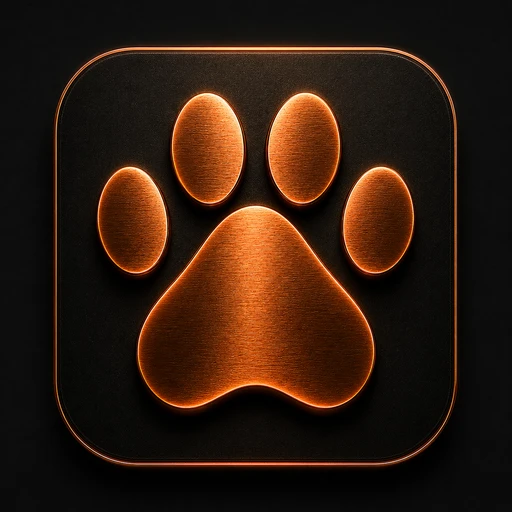
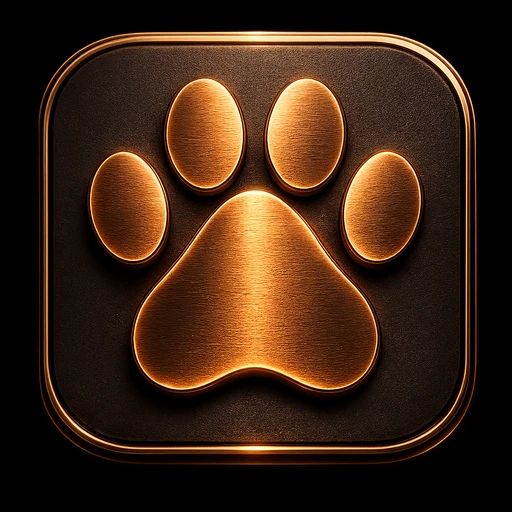
Add files via upload

diff --git a/src/components/NavBar.tsx b/src/components/NavBar.tsx
@@ -1,19 +1,41 @@
+/**
+ * NavBar – Gebürstetes Metall Design
+ * Kupfer-Bronze Akzente, Ambient Glow, matte Oberfläche
+ */
 import { useNavigate, useLocation } from "react-router-dom";
 
 const F = "'Barlow Condensed', sans-serif";
 
+// Kupfer-Bronze Palette
+const COPPER        = "#cd7f32";
+const COPPER_LIGHT  = "#e8a050";
+const COPPER_GLOW   = "rgba(180,100,20,0.35)";
+const INACTIVE      = "rgba(160,130,100,0.45)";  // warm-grau Bronze
+
 const NAV_ITEMS = [
-  { id: "home",     path: "/",         label: "HOME",     d: "M3 9.5L12 3l9 6.5V20a1 1 0 01-1 1H5a1 1 0 01-1-1V9.5z M9 21V12h6v9" },
-  { id: "plan",     path: "/plan",     label: "PLAN",     d: "M8 2v4M16 2v4M3 10h18M5 4h14a2 2 0 012 2v14a2 2 0 01-2 2H5a2 2 0 01-2-2V6a2 2 0 012-2z" },
-  { id: "coaches",  path: "/coaches",  label: "",         isPaw: true },
-  { id: "training", path: "/training", label: "TRAINING", d: "M6 4h4v7H6zM14 4h4v7h-4zM4 15h16M8 15v5M16 15v5" },
-  { id: "profil",   path: "/profil",   label: "PROFIL",   d: "M20 21v-2a4 4 0 00-4-4H8a4 4 0 00-4 4v2M12 3a4 4 0 100 8 4 4 0 000-8z" },
+  {
+    id: "home", path: "/", label: "HOME",
+    d: "M3 9.5L12 3l9 6.5V20a1 1 0 01-1 1H5a1 1 0 01-1-1V9.5z M9 21V12h6v9",
+  },
+  {
+    id: "plan", path: "/plan", label: "PLAN",
+    d: "M8 2v4M16 2v4M3 10h18M5 4h14a2 2 0 012 2v14a2 2 0 01-2 2H5a2 2 0 01-2-2V6a2 2 0 012-2z",
+  },
+  { id: "coaches", path: "/coaches", label: "", isPaw: true },
+  {
+    id: "training", path: "/training", label: "TRAINING",
+    d: "M6 4h4v7H6zM14 4h4v7h-4zM4 15h16M8 15v5M16 15v5",
+  },
+  {
+    id: "profil", path: "/profil", label: "PROFIL",
+    d: "M20 21v-2a4 4 0 00-4-4H8a4 4 0 00-4 4v2M12 3a4 4 0 100 8 4 4 0 000-8z",
+  },
 ];
 
 export function NavBar() {
-  const navigate  = useNavigate();
-  const location  = useLocation();
-  const current   = location.pathname;
+  const navigate = useNavigate();
+  const location = useLocation();
+  const current  = location.pathname;
 
   const isActive = (path: string) =>
     path === "/" ? current === "/" : current.startsWith(path);
@@ -21,43 +43,97 @@ export function NavBar() {
   return (
     <nav
       className="fixed bottom-0 left-1/2 -translate-x-1/2 w-full max-w-[430px] z-50"
-      style={{ background: "rgba(8,8,8,0.96)", borderTop: "1px solid rgba(249,115,22,0.15)", backdropFilter: "blur(20px)" }}
+      style={{
+        // Matte gebürstete Metalloberfläche
+        background: "linear-gradient(180deg, #1a1410 0%, #110e0a 60%, #0d0b08 100%)",
+        borderTop: `1px solid ${COPPER}55`,
+        // Subtile Kantenbeleuchtung oben
+        boxShadow: `0 -1px 0 ${COPPER}33, 0 -8px 32px rgba(0,0,0,0.6)`,
+        backdropFilter: "blur(20px)",
+      }}
     >
-      <div className="flex items-center justify-around px-2 pt-2.5 pb-6">
+      {/* Subtile Metallic-Linie oben */}
+      <div style={{
+        height: 1,
+        background: `linear-gradient(to right, transparent, ${COPPER}66, ${COPPER_LIGHT}88, ${COPPER}66, transparent)`,
+      }} />
+
+      <div className="flex items-center justify-around px-2 pt-2 pb-6">
         {NAV_ITEMS.map((item) =>
           item.isPaw ? (
+            // ── Mittleres Paw-Icon – Gebürstetes Kupfer ──────────────────────
             <button
               key="paw"
               onClick={() => navigate("/coaches")}
-              className="w-14 h-14 rounded-full flex items-center justify-center cursor-pointer -mt-6 flex-shrink-0"
-              style={{
-                background: "#000",
-                border: `2px solid ${isActive("/coaches") ? "#f97316" : "#f97316"}`,
-                boxShadow: isActive("/coaches")
-                  ? "0 0 24px #f97316, 0 0 48px rgba(249,115,22,0.4)"
-                  : "0 0 16px #f97316, 0 0 32px rgba(249,115,22,0.25)",
-              }}
+              className="-mt-7 flex-shrink-0 cursor-pointer"
+              style={{ background: "none", border: "none", padding: 0 }}
             >
-              <img src="/images/paw.webp" alt="paw" className="w-8 h-8 object-contain" />
+              <div style={{
+                width: 62, height: 62,
+                borderRadius: 16,
+                // Gebürstetes Metall Hintergrund
+                background: "linear-gradient(145deg, #2a1f14, #1a1208, #2e2010, #1a1208)",
+                // Kupfer Rahmen mit Glow
+                border: `1.5px solid ${COPPER}`,
+                boxShadow: isActive("/coaches")
+                  ? `0 0 20px ${COPPER_GLOW}, 0 0 40px ${COPPER_GLOW}, inset 0 1px 0 ${COPPER_LIGHT}44`
+                  : `0 0 12px ${COPPER_GLOW}, inset 0 1px 0 ${COPPER}33`,
+                display: "flex",
+                alignItems: "center",
+                justifyContent: "center",
+                position: "relative",
+                overflow: "hidden",
+              }}>
+                {/* Innerer Metallic-Schimmer */}
+                <div style={{
+                  position: "absolute", inset: 0,
+                  background: "linear-gradient(135deg, rgba(205,127,50,0.15) 0%, transparent 50%, rgba(205,127,50,0.08) 100%)",
+                  borderRadius: 14,
+                }} />
+                <img src="/images/nav_paw.webp" alt="paw"
+                  className="relative z-10"
+                  style={{ width: 46, height: 46, objectFit: "contain", borderRadius: 10 }} />
+              </div>
             </button>
           ) : (
+            // ── Normale Nav-Items ────────────────────────────────────────────
             <button
               key={item.id}
               onClick={() => navigate(item.path)}
-              className="flex flex-col items-center gap-1 px-2.5 py-1 text-[9px] font-bold tracking-widest transition-colors"
-              style={{
-                fontFamily: F,
-                color: isActive(item.path) ? "#f97316" : "rgba(255,255,255,0.35)",
-                background: "none",
-                border: "none",
-              }}
+              className="flex flex-col items-center gap-1 px-2 py-1 relative"
+              style={{ background: "none", border: "none" }}
             >
+              {/* Aktiver Indikator – feiner Kupfer-Punkt */}
+              {isActive(item.path) && (
+                <div style={{
+                  position: "absolute",
+                  top: -3, left: "50%", transform: "translateX(-50%)",
+                  width: 3, height: 3, borderRadius: "50%",
+                  background: COPPER_LIGHT,
+                  boxShadow: `0 0 6px ${COPPER}`,
+                }} />
+              )}
+
               <svg width={20} height={20} viewBox="0 0 24 24" fill="none"
-                stroke={isActive(item.path) ? "#f97316" : "rgba(255,255,255,0.35)"}
-                strokeWidth="1.8" strokeLinecap="round" strokeLinejoin="round">
+                stroke={isActive(item.path) ? COPPER_LIGHT : INACTIVE}
+                strokeWidth="1.6" strokeLinecap="round" strokeLinejoin="round"
+                style={{
+                  filter: isActive(item.path) ? `drop-shadow(0 0 4px ${COPPER_GLOW})` : "none",
+                  transition: "all 0.2s",
+                }}>
                 <path d={item.d} />
               </svg>
-              {item.label}
+
+              <span style={{
+                fontFamily: F,
+                fontSize: 9,
+                fontWeight: 700,
+                letterSpacing: "0.08em",
+                color: isActive(item.path) ? COPPER_LIGHT : INACTIVE,
+                transition: "color 0.2s",
+              }}>
+                {item.label}
+              </span>
             </button>
           )
         )}

diff --git a/src/index.css b/src/index.css
@@ -4,14 +4,56 @@
 @tailwind utilities;
 
 * { box-sizing: border-box; margin: 0; padding: 0; }
-body { background: #0a0a0a; color: #fff; font-family: 'Barlow', sans-serif; }
-button { cursor: pointer; }
-::-webkit-scrollbar { width: 4px; height: 4px; }
-::-webkit-scrollbar-thumb { background: #2a2a2a; border-radius: 4px; }
 
-/* ── iOS Auto-Zoom Fix ───────────────────────────────────────────────────────
-   Safari zoomt bei Input-Feldern mit font-size < 16px automatisch rein.
-   Diese Regel verhindert das für alle Inputs, Textareas und Selects.        */
-input, textarea, select {
-  font-size: 16px !important;
+/* ── Globale Design-Tokens: Gebürstetes Metall ───────────────────────────────*/
+:root {
+  --copper:        #cd7f32;
+  --copper-light:  #e8a050;
+  --copper-dark:   #8b5a1f;
+  --copper-glow:   rgba(180, 100, 20, 0.35);
+  --surface:       #111009;
+  --surface-raised:#1a1610;
+  --surface-card:  #161208;
+  --border-metal:  rgba(205, 127, 50, 0.2);
+  --border-subtle: rgba(205, 127, 50, 0.08);
 }
+
+body {
+  background: #0a0807;
+  color: #fff;
+  font-family: 'Barlow', sans-serif;
+  /* Subtile gebürstete Metalltextur als Hintergrund */
+  background-image:
+    repeating-linear-gradient(
+      90deg,
+      transparent,
+      transparent 2px,
+      rgba(205,127,50,0.015) 2px,
+      rgba(205,127,50,0.015) 3px
+    );
+}
+
+button { cursor: pointer; }
+
+/* ── iOS Auto-Zoom Fix ───────────────────────────────────────────────────────*/
+input, textarea, select { font-size: 16px !important; }
+
+/* ── Scrollbar ───────────────────────────────────────────────────────────────*/
+::-webkit-scrollbar { width: 3px; height: 3px; }
+::-webkit-scrollbar-thumb {
+  background: linear-gradient(180deg, var(--copper-dark), var(--copper));
+  border-radius: 4px;
+}
+
+/* ── Karten mit Metallic-Feeling ─────────────────────────────────────────────*/
+.card-metal {
+  background: var(--surface-card);
+  border: 1px solid var(--border-metal);
+  box-shadow: inset 0 1px 0 rgba(205,127,50,0.1), 0 4px 16px rgba(0,0,0,0.4);
+}
+
+/* ── Ambient Glow für aktive Elemente ────────────────────────────────────────*/
+.glow-copper {
+  box-shadow: 0 0 16px var(--copper-glow), 0 0 32px rgba(180,100,20,0.15);
+}
+